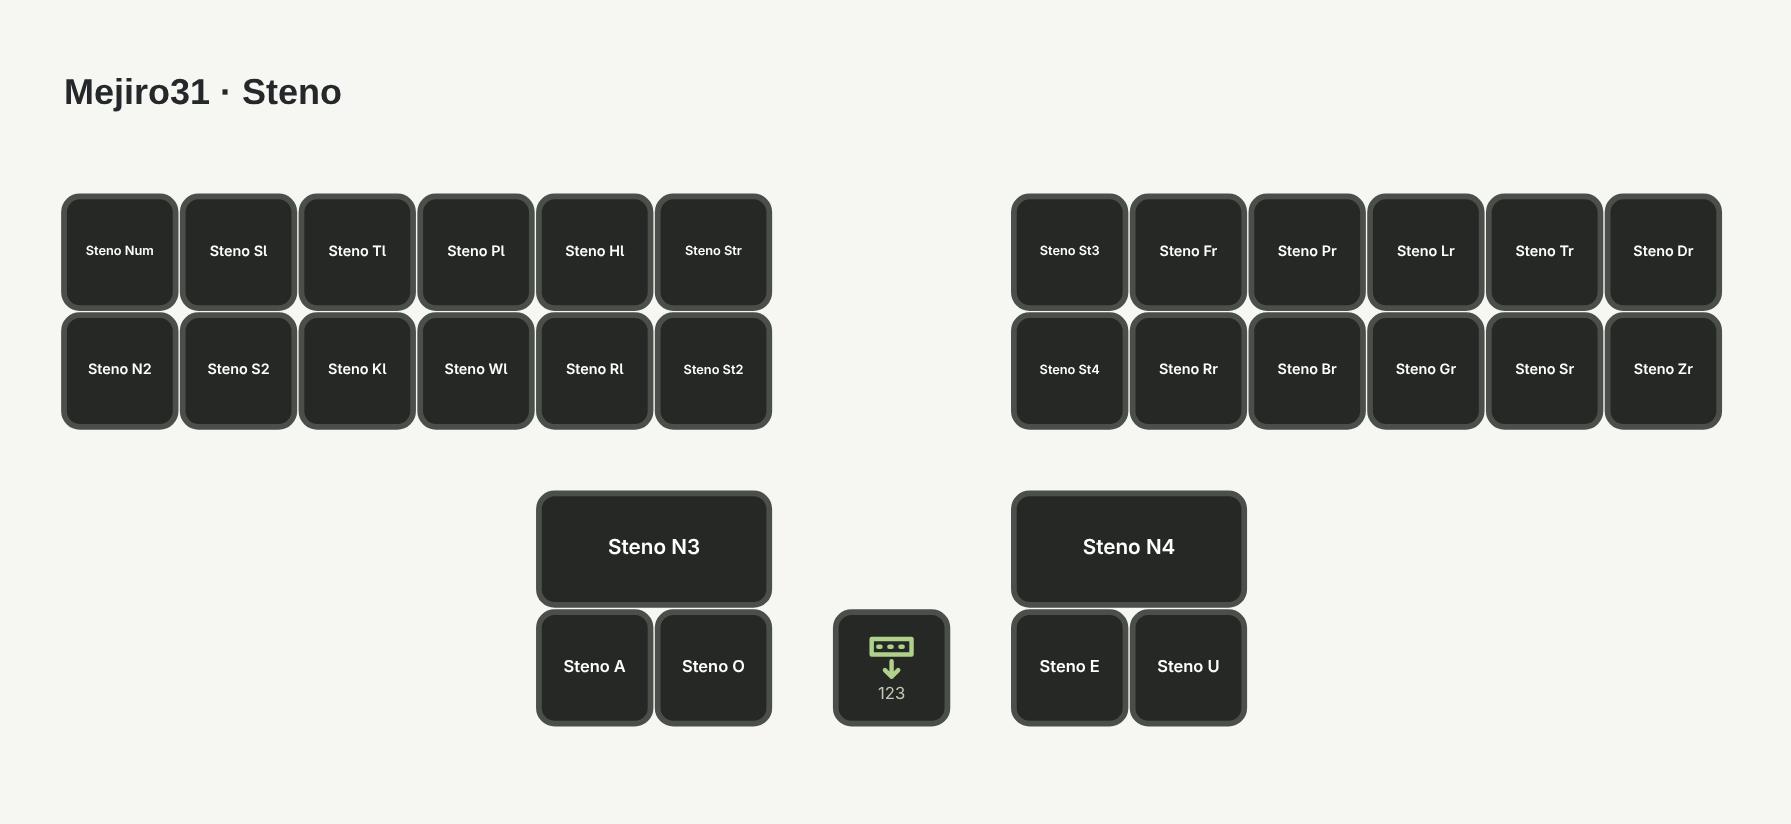
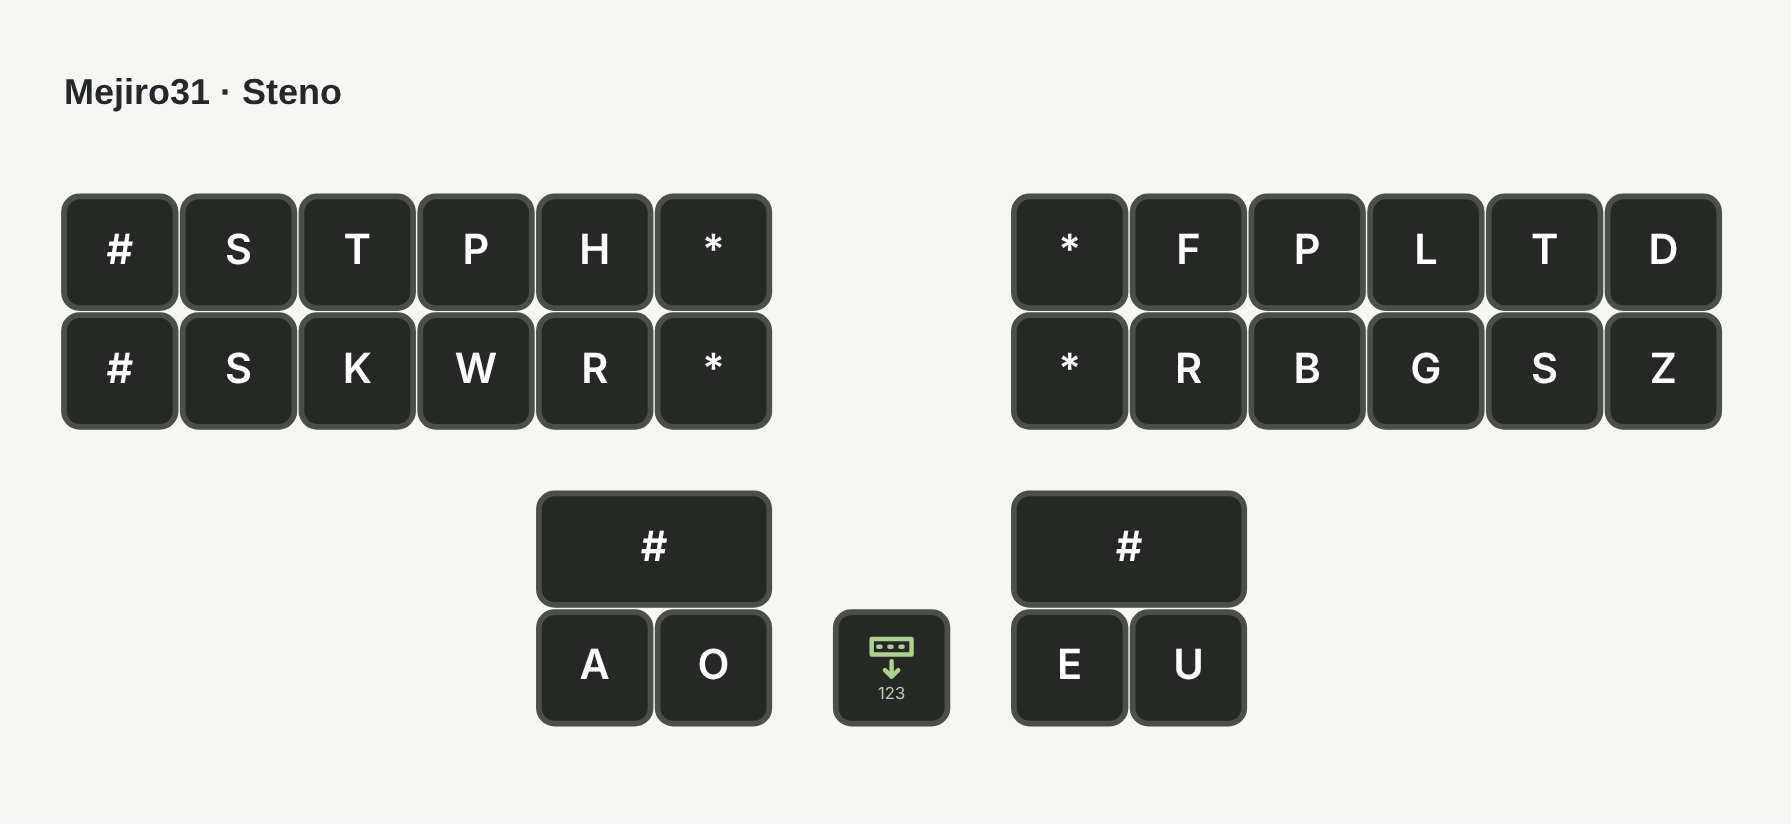
Simplify steno keycaps and label alternate layout switching

diff --git a/site/app.js b/site/app.js
@@ -11,14 +11,14 @@ import {
   ruleNames,
   searchDictionary,
 } from "./dictionary.js?v=20261126-lexical";
-import { createKeyIcon } from "./key-icons.js?v=20261127-platform-icons";
-import { downloadKeymapPNG } from "./keymap-image.js?v=20261127-platform-icons";
-import { keyDescription, keyName, macKeySymbol } from "./key-names.js?v=20261127-english-copy";
+import { createKeyIcon } from "./key-icons.js?v=20261127-steno-caps";
+import { downloadKeymapPNG } from "./keymap-image.js?v=20261127-steno-caps";
+import { keyDescription, keyName, macKeySymbol, stenoKeyLegend } from "./key-names.js?v=20261127-steno-caps";
 import { setIcon } from "./ui.js?v=20261127-english-copy";
 import {
   keyChoices,
   searchChoices,
-} from "./key-choices.js?v=20261127-english-copy";
+} from "./key-choices.js?v=20261127-steno-caps";
 import {
   clone,
   DEFAULT_TIMING,
@@ -191,6 +191,8 @@ function shortName(code) {
   if (code >= 0x5220 && code <= 0x5225) return ["ABC", "⇧ABC", "123", "⇧123", "Fn", "ST"][code - 0x5220];
   if (code >= 89 && code <= 98) return String(code === 98 ? 0 : code - 88);
   const name = codeName(code);
+  const stenoLegend = stenoKeyLegend(name);
+  if (stenoLegend) return stenoLegend;
   const specials = {
     KC_NO: "—",
     KC_TRNS: "▽",
@@ -219,7 +221,7 @@ function shortName(code) {
     KC_LNG2: "英数",
     MJI_MODE: "⇄",
     MJI_JIS: "⇄",
-    MJI_ALT: "⇄",
+    MJI_ALT: "A⇄B",
     MJI_MEJIRO: "⇄",
     MJI_STICKY: "⇧",
     MJI_00: "00",

diff --git a/site/key-names.js b/site/key-names.js
@@ -143,6 +143,16 @@ export function macKeySymbol(code) {
   return appleKeys[code]?.[0];
 }
 
+// Steno aliases identify physical usages; keycaps show only the stroke character.
+export function stenoKeyLegend(name) {
+  if (!name.startsWith("STN_")) return undefined;
+  const usage = name.slice(4);
+  if (usage === "NUM" || /^N[1-9ABC]$/.test(usage)) return "#";
+  if (usage === "STR" || /^ST[1-4]$/.test(usage)) return "*";
+  if (/^S[12]$/.test(usage) || /^[A-Z][LR]?$/.test(usage)) return usage[0];
+  return { FN: "Fn", PWR: "⏻", RES1: "—", RES2: "—", RE1: "—", RE2: "—" }[usage];
+}
+
 export function keyName(code, fallback) {
   if (mac && appleKeys[code]) {
     const [symbol, name] = appleKeys[code];

diff --git a/site/key-icons.js b/site/key-icons.js
@@ -2,7 +2,6 @@
 const speaker = "M3 9h4l5-4v14l-5-4H3z";
 const sun =
   "M12 2v2m0 16v2M2 12h2m16 0h2M5 5l1.5 1.5m11 11L19 19M5 19l1.5-1.5m11-11L19 5";
-const swap = "M4 9h16l-3-3M20 15H4l3 3";
 const icons = {
   0x7e02: {
     paths: ["M3 4h18v7H3zM6 7.5h1m4 0h1m4 0h1", "M12 14v7m-3-3 3 3 3-3"],
@@ -10,7 +9,6 @@ const icons = {
   0x7e03: {
     paths: ["M4 3h16v18H4zM8 7h8M8 11h4M8 15h8", "m15 10 3 2-3 2"],
   },
-  0x7e04: { paths: ["M5 4h14v16H5z", swap] },
   0x7e05: { image: "./assets/mejiro-mark.png" },
   0x7e06: { paths: ["m4 12 8-8 8 8h-4v8h-8v-8z", "M11 16h2"] },
   0x52a2: { paths: ["m4 12 8-8 8 8h-4v8h-8v-8z", "M11 16h2"] },

diff --git a/site/index.html b/site/index.html
@@ -12,7 +12,7 @@
     <link rel="stylesheet" href="./style.css?v=20261127-ime-motion" />
     <link rel="stylesheet" href="./prism.css?v=20261127-english-copy" />
     <script type="module" src="./ui.js?v=20261127-english-copy"></script>
-    <script type="module" src="./app.js?v=20261127-english-copy"></script>
+    <script type="module" src="./app.js?v=20261127-steno-caps"></script>
   </head>
   <body>
     <aside class="sidebar" aria-label="Mejiro31">

diff --git a/site/keymap-image.js b/site/keymap-image.js
@@ -1,4 +1,4 @@
-import { paintKeyIcon } from "./key-icons.js?v=20261127-platform-icons";
+import { paintKeyIcon } from "./key-icons.js?v=20261127-steno-caps";
 // Render the current board at 2x resolution, including off-screen keys.
 export async function downloadKeymapPNG(board, layerName, profile) {
   await document.fonts.ready;

diff --git a/site/key-choices.js b/site/key-choices.js
@@ -1,4 +1,4 @@
-import { keyName } from "./key-names.js?v=20261127-english-copy";
+import { keyName } from "./key-names.js?v=20261127-steno-caps";
 import { supportedCode } from "./model.js?v=20261127-english-copy";
 export function keyChoices(
   data,

diff --git a/docs/USAGE.md b/docs/USAGE.md
@@ -73,7 +73,7 @@ Numberを開いた状態で、右手側の右端にある **Fn** の割り当て
 
 ![Stenoレイヤーのキー割り当て。中央下のキーをタップすると通常入力に戻る。](imgs/keymap/steno.png)
 
-図の文字は設定スタジオに表示される速記キーコードの名称です。内蔵メジロ式での打鍵表記は下の例とメジロ式のガイドを参照してください。
+図はPlover用の速記キーをストローク文字で表示しています。内蔵メジロ式での打鍵表記は下の例とメジロ式のガイドを参照してください。
 
 メジロ式では、たとえば**左手の `K` と `A` を一緒に押して離す →「か」**。母音・子音や略語は[Plover版メジロ式の使い方](https://github.com/JEEBIS27/Plover_Mejiro#使い方how-to-use)を参照してください。
 
@@ -84,7 +84,7 @@ Numberを開いた状態で、右手側の右端にある **Fn** の割り当て
 | 通常入力／速記入力 | タップするたびに通常入力と速記を切り替えます。 | Keyboard、⇧ Keyboard、Stenoの中央下。長押しはNumber。 |
 | メジロ式／Plover（鳥のマーク） | 速記の出力先を、内蔵メジロ式と外部Ploverで切り替えます。 | Number、⇧ Numberの上段左端。 |
 | JIS／US | 接続先PCに合わせて、記号の送信をJIS配列用とUS配列用で切り替えます。 | Functionの上段左端。 |
-| 代替配列 | 選択している代替配列を有効・無効にします。 | Number、⇧ Numberの上段右端。 |
+| 代替配列（A⇄B） | 選択している代替配列を有効・無効にします。 | Number、⇧ Numberの上段右端。 |
 | `00` | ゼロを2つ入力します。 | Numberの左手側。 |
 | `000` | ゼロを3つ入力します。 | Numberの左手側。 |
 | Sticky Shift | 次に押すキー1回にだけShiftを適用します。 | 設定スタジオで短押しに割り当てられます。 |

diff --git a/docs/USAGE_EN.md b/docs/USAGE_EN.md
@@ -71,7 +71,7 @@ In Plover 5.1.0 or later, select **Machine → Plover HID**. Tap the bottom-cent
 | Key | Function | Default assignment |
 | --- | --- | --- |
 | Keyboard / Steno | Tap to switch between typing and steno. | Bottom center on Keyboard, ⇧ Keyboard, and Steno. Hold to use Number. |
-| Alternate layout toggle | Enables or disables the selected alternate layout. | Top-right key on Number and ⇧ Number. |
+| Alternate layout toggle (A⇄B) | Enables or disables the selected alternate layout. | Top-right key on Number and ⇧ Number. |
 | `00` | Types two zeros. | Left side of Number. |
 | `000` | Types three zeros. | Left side of Number. |
 | Sticky Shift | Applies Shift to the next key only. | Assignable as a Tap action in the Configurator. |
